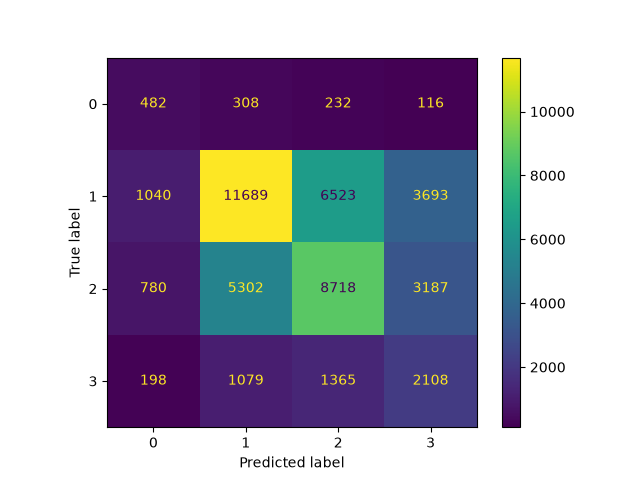
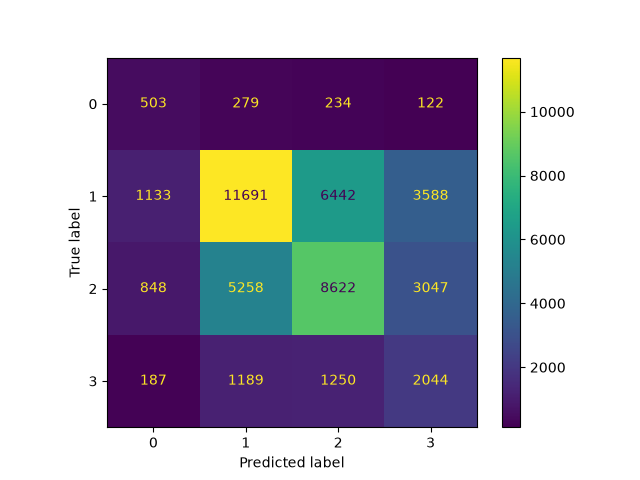
Updated README

diff --git a/src/06_ml_catboost.py b/src/06_ml_catboost.py
@@ -62,7 +62,7 @@ base_model = CatBoostClassifier(
 
 param_distributions = {
 
-    "iterations": [100, 250, 500, 750],
+    "iterations": [750],
 
     "learning_rate": loguniform(0.01, 0.2),
 

diff --git a/README.md b/README.md
@@ -78,7 +78,7 @@ Conclusion (WIP)
 ## Statistical Analysis 
 
 * Chi-squared tests were used to confirm that the contingency pairs "att_tier/is_bomb_planted" and "att_tier/round_type" are related
-* ANOVA and pairwise Tukey post-hoc analysis were used to analyze the trend of total damage per entry, inbetween distance, and distance to nearest bombsite as attacker rank tier goes up. All pairs had a statistically significant relationship for damage per entry and inbetween distance, while att_tier/att_distance_from_bombsite and vic_tier/vic_distance_from_bombsite had 4/6 and 5/6 pairs that had a statistically significant relationship, respectively.
+* ANOVA and pairwise Tukey post-hoc analysis were used to analyze the trend of total damage per entry, inbetween distance, and distance to nearest bombsite as attacker rank tier goes up. All pairs had a statistically significant relationship for damage per entry and inbetween distance, while att_tier/att_distance_from_bombsite and vic_tier/vic_distance_from_bombsite had 5/6 pairs that had a statistically significant relationship, respectively.
 * The Cochran-Armitage test was used to confirm that 14 weapons had a statistically significant trend as attacker rank tier goes up.
 
 ## Machine Learning (WIP)